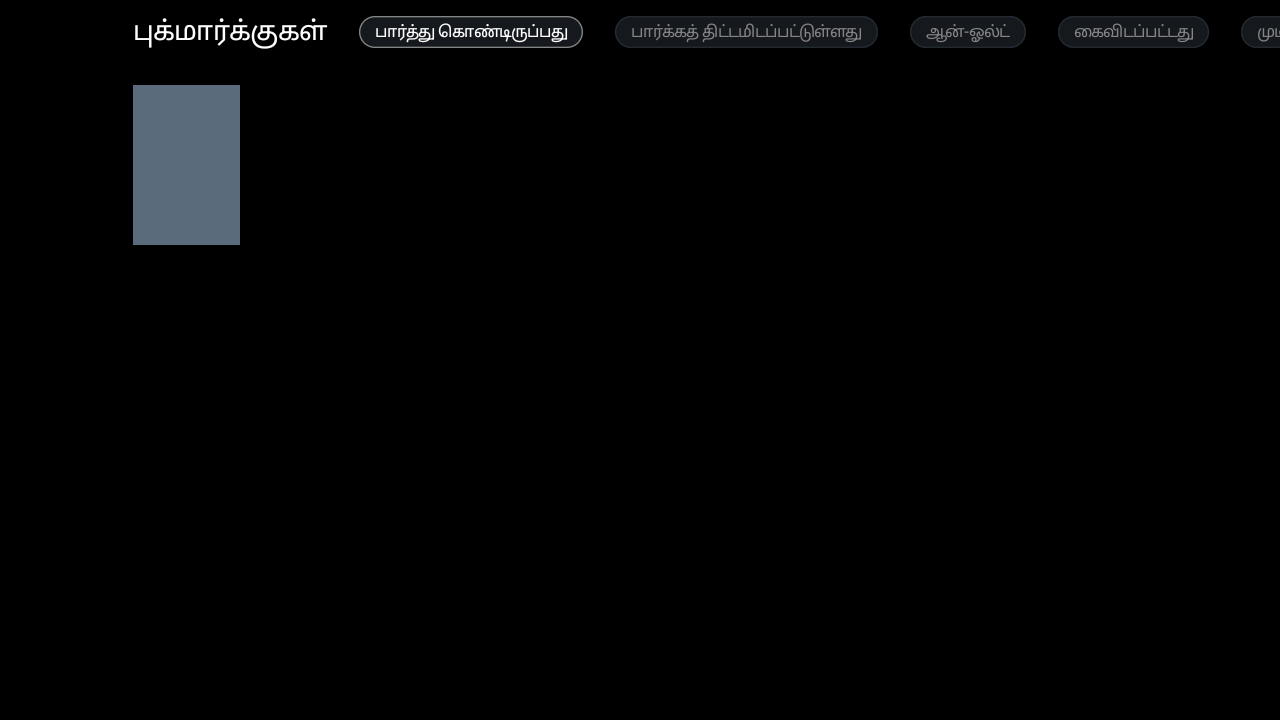
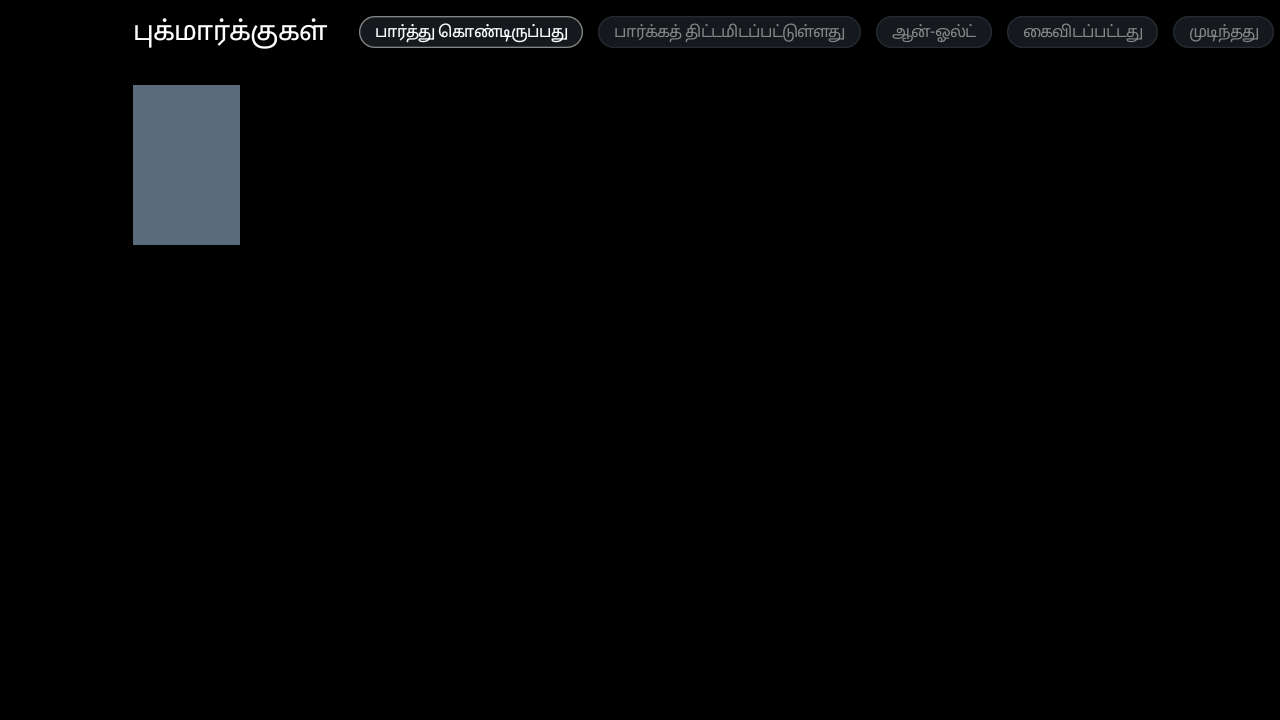
BUG-68: the chip row fills only when it overflows; re-record two references
On the rebased head, a chip row that filled with weight(1f) stretched the
chips' focus group to the screen's end. Then UP from a bookmark, after coming
back from its page, skipped the chips and landed on the hero. That broke :app
TvHomeNavigationTest. weight(..., fill = false) keeps the scroll and fixes it:
5 of 5 green, beside master's 5 of 5.

The two home-bookmarks-chips references drifted because BUG-65's 12dp chip
gaps reached master after this PR's old base. The diff is spacing only and was
looked at. Both were re-recorded once, after the fix.

Changed region(s): [[0.4688, 0.0, 1.0, 0.0917]]

diff --git a/feature/home/src/commonMain/kotlin/com/lagradost/cloudstream4/feature/home/tv/HomeBookmarksTv.kt b/feature/home/src/commonMain/kotlin/com/lagradost/cloudstream4/feature/home/tv/HomeBookmarksTv.kt
@@ -161,6 +161,13 @@ internal fun HomeBookmarksTv(
  * so a focused chip's ring has room at both ends instead of being cut by the scroll's own clip. `LibraryTabRow` is
  * the same three modifiers in the same order.
  *
+ * **The chips are only as wide as they are while they fit** (`weight(…, fill = false)`): the viewport is capped at
+ * what the title leaves, and it fills that only when the chips overflow. Filling it always made the chips' focus group
+ * run to the screen's end, and then UP from a bookmark, once the page had come back from that title, skipped the chips
+ * for the hero. That was `:app`'s `TvHomeNavigationTest` `aBookmarkIsOnItsRail…AndAChipIsKept`, measured on
+ * `Television_720p`: master 2 of 2 green; the filling row red in 6 of 6 runs, with or without the scroll, and with the
+ * focus group inside the scroll or outside it. Master's own row plus a filling `weight` alone was red too.
+ *
  * The title is not inside the scroll: it is the row's heading, it stays where 3e draws it, and scrolling it away would
  * leave the chips captioned by nothing.
  */
@@ -190,7 +197,7 @@ private fun BookmarksHeader(
         ChipRow(
             modifier = wall
                 .focusGroup()
-                .weight(WEIGHT_REMAINING)
+                .weight(WEIGHT_REMAINING, fill = false)
                 .horizontalScroll(rememberScrollState())
                 .padding(
                     start = CloudStreamDimens.ChipRowSpacing,
@@ -261,5 +268,5 @@ private val HomeWatchStatus.words: StringResource
 internal val BookmarksRailHeight: Dp =
     CloudStreamDimens.ChipFocusCell + CloudStreamDimens.LiftedRowClearance + HomeScreenTvDefaults.BookmarksCardHeight
 
-/** The chips take what the title leaves, and scroll inside it. */
+/** The chips take at most what the title leaves, and scroll inside it. */
 private const val WEIGHT_REMAINING = 1f

diff --git a/docs/tasks/defects.md b/docs/tasks/defects.md
@@ -4855,6 +4855,8 @@ Every size comes from a token or from an existing `XxxDefaults` literal; nothing
   stays outside the scroll. What the overflow looked like, measured rather than assumed: a `Row` takes it out of
   whatever is left at its last child, so in Tamil the fifth chip was a sliver against the screen's edge with its word
   ellipsised away — reachable with a key, and unreadable.
+  The viewport takes **at most** what the title leaves (`weight(…, fill = false)`), not all of it — see the revival
+  below for why filling it broke `:app`.
 
 **Tests.** One device test per pattern, each in the worst real translation and each failing before the fix:
 `MediaCardBadgeDeviceTest` (3 cases), `PlayerSkipLongLabelDeviceTest` (2), `AccountLongLabelDeviceTest` (3, the screen
@@ -4888,6 +4890,38 @@ byte-identically**, which is the evidence that nothing else on these screens mov
   `Badge`'s KDoc named `BadgeDefaults.HorizontalPadding` where the card uses `MediaCardDefaults.ContentPadding` (the
   same 4dp, a different meaning); `ListRowDefaults.HeightStep`'s promotion note now uses the same
   **Should become `CloudStreamDimens.…`** marker as the other four, so one grep finds them all.
+
+**Revived** (2026-11-16, owner-approved): rebased onto `517f84abf`.
+
+- **The rebase.** The only conflict was this file. It resolved to master's file plus this PR's three entries
+  (`BUG-82`, `BUG-62`, `BUG-68`), appended verbatim. The range-diff shows the code unchanged. None of the 15 code files
+  has a master commit since the old base, so nothing on master already fixes any of this.
+- **The bug is still there.** This PR's device tests, run against master's code, fail every case they are meant to
+  catch: the verb is cut, chip 4 loses its word, and the applied row is 1 line, not 2.
+- **(d) broke `:app`, and that is fixed.** The full TV suite on the rebased head failed
+  `TvHomeNavigationTest.aBookmarkIsOnItsRailOpensItsRealPageAndFocusComesBackAndAChipIsKept`
+  (`expected:<[Watching]> but was:<[More info · Fake One A 0]>`): UP from a bookmark, after coming back from its page,
+  skipped the chips and landed on the hero. Measured on `Television_720p`:
+  - master: green 2 of 2, then 5 of 5;
+  - the old head and the rebased head: red every run;
+  - without the scroll: red;
+  - with the focus group inside the scroll: red;
+  - master's own row plus a filling `weight(1f)` and nothing else: red.
+
+  The filling `weight` is the cause: it stretches the chips' focus group to the screen's end. With
+  `weight(…, fill = false)` the class is green 5 of 5, run by run beside master's 5 of 5. `HomeBookmarksChipScrollDeviceTest`'s
+  Tamil assertions still pass: every chip is reached by the D-pad, each is wholly on screen while it holds focus, and the
+  title stays put.
+- **Two screenshots re-recorded, and this is not a mask.** `home-bookmarks-chips-at-rest` and
+  `home-bookmarks-chips-scrolled-to-last` failed after the rebase, before the (d) fix and after it, with the same pixel
+  counts both times (11673 and 12793). The cause is `BUG-65`'s 12dp chip gaps, which reached master after this PR's
+  old base. Reference against actual is a spacing change only, and it was looked at. They were re-recorded once, after
+  the (d) fix, and the new images were looked at too: every Tamil word is whole, the gaps are 12dp, and the last chip's
+  ring is fully on screen.
+- **Results** (all local; CI is off): the full TV device suite on `Television_720p`, all eleven modules plus
+  `:app`, ran 566 tests with 0 failures. The one skip is `TvHomeRealPluginProof`, which skips on master too. `:app`
+  needed a second run: in the first, the emulator was lost partway through `TvRailNavigationTest.noDeadEndsOnSettings`.
+  That test's failure is empty and the run stopped 12 tests short; the rerun of all of `:app` was 180 of 180.
 
 **Not in this task.** `quality_profile_help` measures 1247dp, but it is help text in a dialog rather than a badge, and
 the sweep lists it only because it shares the `quality_*` prefix.
